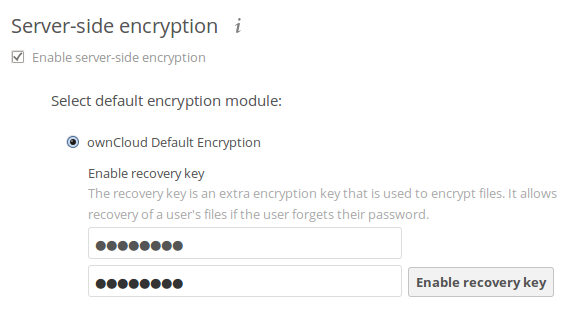
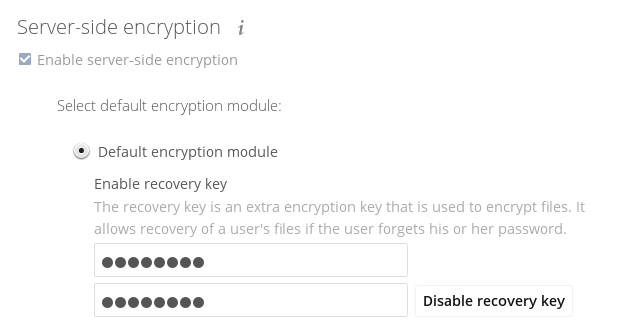
update encryption page for master/8.2

diff --git a/admin_manual/configuration_files/encryption_configuration.rst b/admin_manual/configuration_files/encryption_configuration.rst
@@ -2,10 +2,6 @@
 Encryption Configuration
 ========================
 
-If you are upgrading from ownCloud 8.0, and have encryption enabled, please see 
-:ref:`upgrading_encryption_label` (below) for the correct steps to upgrade your 
-encryption.
-
 The primary purpose of the ownCloud server-side encryption is to protect users' 
 files on remote storage, such as Dropbox and Google Drive, and to do it easily 
 and seamlessly from within ownCloud.
@@ -136,8 +132,8 @@ Encryption settings can be configured in the mount options for an external
 storage mount, see :ref:`external_storage_mount_options_label`
 (:doc:`external_storage_configuration_gui`)
 
-Enabling Users' File Recovery Key
----------------------------------
+Enabling Users File Recovery Keys
+----------------------------------
 
 If you lose your ownCloud password, then you lose access to your encrypted 
 files. If one of your users loses their ownCloud password their files are 
@@ -251,109 +247,3 @@ their back-end password, and then, of course, notify the user and give them
 their new password.
 
 .. _upgrading_encryption_label:
-
-Upgrading From ownCloud 8.0
----------------------------
-
-The encryption backend has changed in ownCloud 8.1, so you must take some 
-additional steps to migrate encryption correctly. If you do not follow these 
-steps you may not be able to access your files.
-
-Before you start your upgrade, put your ownCloud server into 
-``maintenance:singleuser`` mode (See :doc:`../maintenance/enable_maintenance`.) 
-You must do this to prevent users and sync clients from accessing files before 
-you have completed your encryption migration.
-
-After your upgrade is complete, follow the steps in :ref:`enable_encryption_label` to 
-enable the new encryption system. Then click the **Start Migration** button on 
-your Admin page to migrate your encryption keys, or use the ``occ`` command. We 
-strongly recommend using the ``occ`` command; the **Start Migration** button is 
-for admins who do not have access to the console, for example installations on 
-shared hosting. This example is for Debian/Ubuntu Linux::
-
- $ sudo -u www-data php occ encryption:migrate
- 
-This example is for Red Hat/CentOS/Fedora Linux::
-
- $ sudo -u apache php occ encryption:migrate
- 
-You must run ``occ`` as your HTTP user; see 
-:doc:`../configuration_server/occ_command`.
-
-When you are finished, take your ownCloud server out of 
-``maintenance:singleuser`` mode.
-
-Where Keys are Stored
----------------------
-
-All of your encryption keys are stored in your ownCloud :file:`data/` 
-directory. When you run the migration command your old keys are backed up in 
-your data directory:
-
-Backup for system-wide keys:
- :file:`data/encryption_migration_backup_<timestamp>`
-
-Backup for user-specific keys: 
- :file:`data/<user>/encryption_migration_backup_<timestamp>`
-
-Both backup directories contain the keys in the old file structure. This is the 
-old file structure for ownCloud 8.0:
-
-Private public share key:
- :file:`data/files_encryption/pubShare_<public-share-key-id>.privateKey`
-    
-Private recovery key: 
- :file:`data/files_encryption/recovery_<recovery-key-id>.privateKey`
- 
-Public keys of all users: 
- :file:`data/files_encryption/public_keys`
- 
-File keys for system-wide mount points: 
- :file:`data/files_encryption/keys/<file_path>/<filename>/fileKey`
-
-Share keys for files on a system-wide mount point (one key for the owner and one key for each user with access to the file): 
- :file:`data/files_encryption/keys/<file_path>/<filename>/<user>.shareKey`
-
-Users' private keys: 
- :file:`data/<user>/files_encryption/<user>.privateKey`
-
-File keys for files owned by the user: 
- :file:`data/<user>/files_encryption/keys/<file_path>/<filename>/fileKey`
-
-Share keys for files owned by the user (one key for the owner and one key for each user with access to the file):
- :file:`data/<user>/files_encryption/keys/<file_path>/<filename>/<user>.shareKey`
- 
-This is the new file structure for ownCloud 8.1:
-
-Private public share key:
- :file:`data/files_encryption/OC_DEFAULT_MODULE/pubShare_<public-share-key-id>.privateKey`
-
-Private recovery key: 
- :file:`data/files_encryption/OC_DEFAULT_MODULE/recovery_<recovery-key-id>.privateKey`
-
-Public public share key: 
- :file:`data/files_encryption/OC_DEFAULT_MODULE/pubShare_<public-share-key-id>.publicKey`
-
-Public recovery key: 
- :file:`data/files_encryption/OC_DEFAULT_MODULE/recovery_<recovery-key-id>.publicKey`
-
-File keys for system-wide mount points: 
- :file:`data/files_encryption/keys/<file_path>/<filename>/OC_DEFAULT_MODULE/fileKey`
-
-Share keys for files on a system-wide mount point (one key for the owner and one key for each user with access to the file): 
- :file:`data/files_encryption/keys/<file_path>/<filename>/OC_DEFAULT_MODULE/<user>.shareKey`
-
-Users' private keys: 
- :file:`data/<user>/files_encryption/OC_DEFAULT_MODULE/<user>.privateKey`
-
-Users' public keys:
- :file:`data/<user>/files_encryption/OC_DEFAULT_MODULE/<user>.publicKey`
-
-File keys for files owned by the user: 
- :file:`data/<user>/files_encryption/keys/<file_path>/<filename>/OC_DEFAULT_MODULE/fileKey`
-
-Share keys for files owned by the user (one key for the owner and one key for each user with access to the file):
- :file:`data/<user>/files_encryption/keys/<file_path>/<filename>/OC_DEFAULT_MODULE/<user>.shareKey`
-
-.. references --  https://github.com/owncloud/QA/issues/16
-.. 
